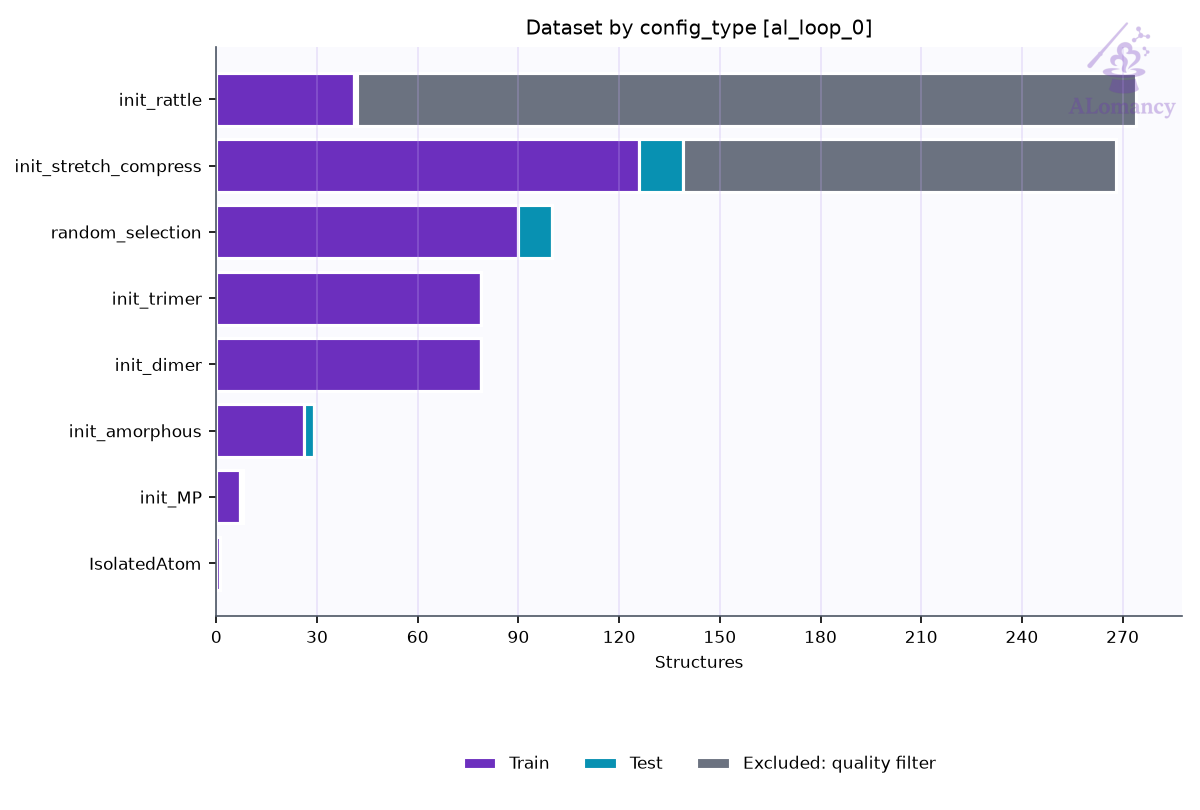
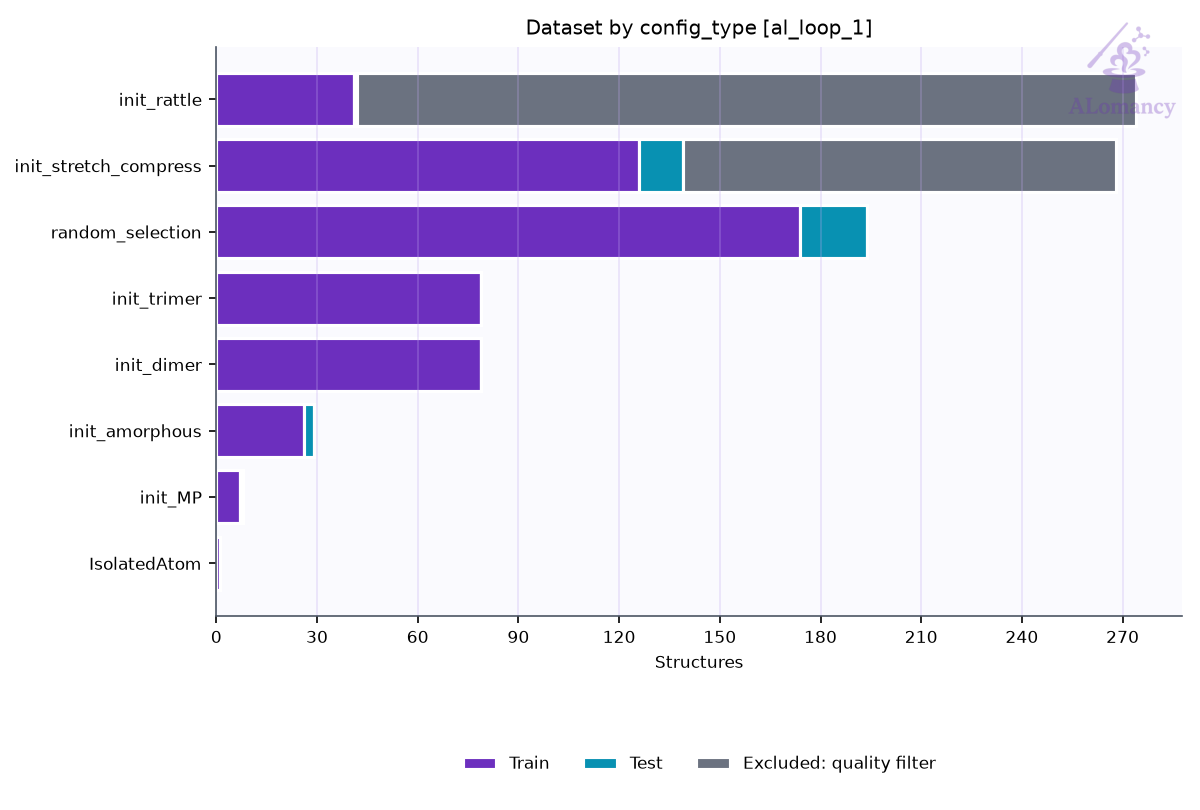
update viper_omat_ezga_random, viper_omat_md_novelty, viper_omat_md_random

Changed region(s): [[0.4317, 0.2469, 0.74, 0.3395]]

diff --git a/alomancy/viper_omat_ezga_random/report/report.md b/alomancy/viper_omat_ezga_random/report/report.md
@@ -1,31 +1,33 @@
-# ALomancy report: al_loop_0
+# ALomancy report: al_loop_1
 
-Workflow `random_selection` · trainer `mace` · generator `ezga` · evaluator `qe` · generated 2026-11-20T02:38:29
+Workflow `random_selection` · trainer `mace` · generator `ezga` · evaluator `qe` · generated 2026-11-23T09:16:19
 
-**Status:** 💡 1 info · 2 warning(s) logged
+**Status:** 💡 2 infos · 4 warning(s) logged
 
 ## Headline
 
-| | previous | loop 0 | change |
+| | loop 0 | loop 1 | change |
 |---|---:|---:|---:|
-| Best model test force MAE (eV/Å) | n/a | 0.0724 |  |
-| Best model test energy MAE (meV/atom) | n/a | 33.6 |  |
-| Training structures | n/a | 449 |  |
-| Test structures | n/a | 28 |  |
-| New structures this loop | n/a | 50 |  |
-| Warnings / errors logged | n/a | 2 |  |
+| Best model test force MAE (eV/Å) | 0.0724 | 0.136 | +88% |
+| Best model test energy MAE (meV/atom) | 33.6 | 39.8 | +18% |
+| Training structures | 449 | 533 | +19% |
+| Test structures | 28 | 38 | +36% |
+| New structures this loop | 50 | 48 | -4% |
+| Warnings / errors logged | 2 | 4 | +100% |
 
 Best model: fit_0 of 1 (chosen on the `valid` split).
 
 ## Issues & suggestions
 
-- 💡 **queue_dominated**: generate_structures spent 99% of its time (15.8 h) queued. Raise max_num_of_concurrent_jobs in the HPC profile or use a less busy partition.
+- 💡 **queue_dominated**: training_plots spent 99% of its time (25.3 h) queued. Raise max_num_of_concurrent_jobs in the HPC profile or use a less busy partition.
+- 💡 **overfitting**: The best model's test force MAE (0.136 eV/Å) is 2.7x its training MAE (0.0497 eV/Å). The test set covers configurations training doesn't: keep adding data, or raise general.dataset_kwargs.valid_fraction to select models on held-out data.
 
 ## Trends
 
 | loop | test F-MAE (eV/Å) | train | new | DFT returned | GO converged | new redundant | warnings |
 |---:|---:|---:|---:|---:|---:|---:|---:|
 | 0 | 0.0724 | 449 | 50 | 50/50 | 98% | 0 | 2 |
+| 1 | 0.136 | 533 | 48 | 48/50 | 98% | 0 | 4 |
 
 ![Best-model MAE per loop](plots/training_al_loop_mae_plot.png)
 
@@ -35,7 +37,7 @@ Best model: fit_0 of 1 (chosen on the `valid` split).
 
 ![Best model parity](plots/best_model_parity.png)
 
-Median relative error: train energy 1.0%, force 6.3%; test energy 0.3%, force 16.7%.
+Median relative error: train energy 0.6%, force 6.9%; test energy 0.4%, force 21.7%.
 Energies with |formation energy| < 0.05 eV/atom and atoms with |F| < 0.1 eV/Å are left out; force error is |ΔF|/|F| per atom.
 
 ![Best model percentage error](plots/best_model_percent_error.png)
@@ -51,11 +53,11 @@ Energies with |formation energy| < 0.05 eV/atom and atoms with |F| < 0.1 eV/Å a
 | init_rattle | 41 | 1 | 232 | 274 |
 | init_stretch_compress | 126 | 13 | 129 | 268 |
 | init_trimer | 79 | 0 | 0 | 79 |
-| random_selection | 90 | 10 | 0 | 100 |
-| **all** | **449** | **28** | **361** | **838** |
+| random_selection | 174 | 20 | 0 | 194 |
+| **all** | **533** | **38** | **361** | **932** |
 
-- Redundancy removal: 0 structure(s) flagged in total, 0 of this loop's 50 new.
-- DFT geometry-optimisation starting frames: 50 stored this loop, 50 used (the rest excluded by the train/test filters or redundancy removal).
+- Redundancy removal: 0 structure(s) flagged in total, 0 of this loop's 48 new.
+- DFT geometry-optimisation starting frames: 46 stored this loop, 46 used (the rest excluded by the train/test filters or redundancy removal).
 - Quality filters: high_force: 361, formation_energy: 17.
 
 ![Training set composition](plots/training_set_composition.png)
@@ -64,17 +66,17 @@ Energies with |formation energy| < 0.05 eV/atom and atoms with |F| < 0.1 eV/Å a
 
 Redundancy removal flags near-duplicate training structures, so the model isn't trained on many copies of the same geometry. Each structure is described by `char_vec_128`: all of its interatomic distances, sorted and resampled to 128 values (`global_descriptor/atomic_distance_descriptor.make_char_vec`). Two structures count as duplicates when the Euclidean distance between their descriptors is below a tolerance: in database order, each structure still in the training set is kept unless it is within the tolerance of one already kept. The plot sweeps that tolerance and counts how many structures are kept at each value. **We are looking for plateaus** (shaded): ranges where the count doesn't change, so the result doesn't depend on the exact tolerance. The orange line (right axis) is the number of structures removed between consecutive tolerance steps, the gradient of the count: zero on a plateau. The start of the lowest plateau at least `general.redundancy_kwargs.min_plateau_width` of the swept range wide is used (dashed line). Nothing is flagged when no plateau qualifies, or when it would flag more than `max_flagged_fraction` of the structures; `general.redundancy_kwargs.tolerance` sets the tolerance directly.
 
-- This loop: 164 structures probed; the lowest plateau would flag more than 50% of them, so nothing was flagged.
+- This loop: 248 structures probed; the lowest plateau would flag more than 50% of them, so nothing was flagged.
 
 ![Redundancy tolerance probe](plots/redundancy_tolerance_probe.png)
 
 ## DFT
 
-- Structures: 50 returned of 50 submitted (50 relaxed, 0 single point).
-- Geometry optimisation: 49/50 reached the force ceiling (0.05 eV/Å); steps mean 23.3, median 16, max 200 of 200 allowed.
-- Average DFT time per relaxation: 13.8 min (median 9.2, max 106.0; 50 structures).
-- Largest per-atom force after DFT: median 0.04, max 0.21 eV/Å.
-- DFT phase wall-clock: 45.0 h (mean queue time 1540 min).
+- Structures: 48 returned of 50 submitted (48 relaxed, 0 single point).
+- Geometry optimisation: 47/48 reached the force ceiling (0.05 eV/Å); steps mean 27.2, median 18, max 200 of 200 allowed.
+- Average DFT time per relaxation: 17.9 min (median 12.0, max 138.9; 48 structures).
+- Largest per-atom force after DFT: median 0.04, max 0.62 eV/Å.
+- DFT phase wall-clock: 52.8 h (mean queue time 3046 min).
 
 **Structures evaluated with DFT this loop (final geometries)**
 
@@ -82,14 +84,14 @@ Redundancy removal flags near-duplicate training structures, so the model isn't 
 
 ## MLIP training: mace
 
-- Best fit (fit_0) trained for 299 epochs, stage two from epoch 240; weights kept from epoch 244.
+- Best fit (fit_0) trained for 299 epochs, stage two from epoch 240; weights kept from epoch 253.
 
 ![Best model training curve](plots/best_model_training_curve.png)
 
 ## Structure generation: EZGA
 
 - Seeds: 8, generations run: 11 (max_generations 10, population 100)
-- Structures generated: 514, taken as candidates: 500 (newest first, back to generation 1)
+- Structures generated: 565, taken as candidates: 500 (newest first, back to generation 4)
 - Mutations: mutation_rattle, mutation_random_strain, bounded_mutation_add, bounded_mutation_remove
 
 ## High-accuracy evaluation: QE
@@ -104,8 +106,9 @@ Redundancy removal flags near-duplicate training structures, so the model isn't 
 |---|---|---:|
 | `dft_summary` | DFT batch summary | 1 |
 | `ezga_summary` | EZGA summary | 1 |
-| `job_still_queued` | jobs still queued after their time limit (waiting on) | 15 |
-| `jobs_started` | remote jobs started | 2 |
+| `job_failed` | remote job failed | 2 |
+| `job_still_queued` | jobs still queued after their time limit (waiting on) | 50 |
+| `jobs_started` | remote jobs started | 3 |
 | `quality_filtered` | train/test quality filter passes | 2 |
 | `redundancy_cap_hit` | redundancy removal skipped (would flag too many) | 1 |
 | `stale_sqlite_sidecars_removed` |  | 1 |

diff --git a/alomancy/viper_omat_md_novelty/report/report.md b/alomancy/viper_omat_md_novelty/report/report.md
@@ -1,31 +1,32 @@
-# ALomancy report: al_loop_0
+# ALomancy report: al_loop_1
 
-Workflow `novelty_selection` · trainer `mace` · generator `md` · evaluator `qe` · generated 2026-11-23T05:15:48
+Workflow `novelty_selection` · trainer `mace` · generator `md` · evaluator `qe` · generated 2026-11-23T09:10:41
 
-**Status:** 💡 1 info · 7 warning(s) logged
+**Status:** 💡 1 info · 4 warning(s) logged
 
 ## Headline
 
-| | previous | loop 0 | change |
+| | loop 0 | loop 1 | change |
 |---|---:|---:|---:|
-| Best model test force MAE (eV/Å) | n/a | 0.0724 |  |
-| Best model test energy MAE (meV/atom) | n/a | 33.6 |  |
-| Training structures | n/a | 443 |  |
-| Test structures | n/a | 28 |  |
-| New structures this loop | n/a | 48 |  |
-| Warnings / errors logged | n/a | 7 |  |
+| Best model test force MAE (eV/Å) | 0.0724 | 0.111 | +53% |
+| Best model test energy MAE (meV/atom) | 33.6 | 31.7 | -6% |
+| Training structures | 443 | 529 | +19% |
+| Test structures | 28 | 38 | +36% |
+| New structures this loop | 48 | 19 | -60% |
+| Warnings / errors logged | 7 | 4 | -43% |
 
 Best model: fit_0 of 1 (chosen on the `valid` split).
 
 ## Issues & suggestions
 
-- 💡 **queue_dominated**: generate_structures spent 94% of its time (33.2 h) queued. Raise max_num_of_concurrent_jobs in the HPC profile or use a less busy partition.
+- 💡 **queue_dominated**: high_accuracy_evaluation spent 58% of its time (1.4 h) queued. Raise max_num_of_concurrent_jobs in the HPC profile or use a less busy partition.
 
 ## Trends
 
 | loop | test F-MAE (eV/Å) | train | new | DFT returned | GO converged | new redundant | warnings |
 |---:|---:|---:|---:|---:|---:|---:|---:|
 | 0 | 0.0724 | 443 | 48 | 48/50 | 98% | 0 | 7 |
+| 1 | 0.111 | 529 | 19 | 48/50 | 100% | 0 | 4 |
 
 ![Best-model MAE per loop](plots/training_al_loop_mae_plot.png)
 
@@ -35,7 +36,7 @@ Best model: fit_0 of 1 (chosen on the `valid` split).
 
 ![Best model parity](plots/best_model_parity.png)
 
-Median relative error: train energy 1.0%, force 6.3%; test energy 0.3%, force 16.7%.
+Median relative error: train energy 0.6%, force 6.2%; test energy 0.2%, force 8.0%.
 Energies with |formation energy| < 0.05 eV/atom and atoms with |F| < 0.1 eV/Å are left out; force error is |ΔF|/|F| per atom.
 
 ![Best model percentage error](plots/best_model_percent_error.png)
@@ -51,11 +52,11 @@ Energies with |formation energy| < 0.05 eV/atom and atoms with |F| < 0.1 eV/Å a
 | init_rattle | 41 | 1 | 232 | 274 |
 | init_stretch_compress | 126 | 13 | 129 | 268 |
 | init_trimer | 79 | 0 | 0 | 79 |
-| novelty_selection | 84 | 10 | 2 | 96 |
-| **all** | **443** | **28** | **363** | **834** |
+| novelty_selection | 170 | 20 | 2 | 192 |
+| **all** | **529** | **38** | **363** | **930** |
 
-- Redundancy removal: 0 structure(s) flagged in total, 0 of this loop's 48 new.
-- DFT geometry-optimisation starting frames: 48 stored this loop, 46 used (the rest excluded by the train/test filters or redundancy removal).
+- Redundancy removal: 0 structure(s) flagged in total, 0 of this loop's 19 new.
+- DFT geometry-optimisation starting frames: 77 stored this loop, 77 used (the rest excluded by the train/test filters or redundancy removal).
 - Quality filters: high_force: 363, formation_energy: 17.
 
 ![Training set composition](plots/training_set_composition.png)
@@ -64,17 +65,17 @@ Energies with |formation energy| < 0.05 eV/atom and atoms with |F| < 0.1 eV/Å a
 
 Redundancy removal flags near-duplicate training structures, so the model isn't trained on many copies of the same geometry. Each structure is described by `char_vec_128`: all of its interatomic distances, sorted and resampled to 128 values (`global_descriptor/atomic_distance_descriptor.make_char_vec`). Two structures count as duplicates when the Euclidean distance between their descriptors is below a tolerance: in database order, each structure still in the training set is kept unless it is within the tolerance of one already kept. The plot sweeps that tolerance and counts how many structures are kept at each value. **We are looking for plateaus** (shaded): ranges where the count doesn't change, so the result doesn't depend on the exact tolerance. The orange line (right axis) is the number of structures removed between consecutive tolerance steps, the gradient of the count: zero on a plateau. The start of the lowest plateau at least `general.redundancy_kwargs.min_plateau_width` of the swept range wide is used (dashed line). Nothing is flagged when no plateau qualifies, or when it would flag more than `max_flagged_fraction` of the structures; `general.redundancy_kwargs.tolerance` sets the tolerance directly.
 
-- This loop: 158 structures probed; the lowest plateau would flag more than 50% of them, so nothing was flagged.
+- This loop: 244 structures probed; the lowest plateau would flag more than 50% of them, so nothing was flagged.
 
 ![Redundancy tolerance probe](plots/redundancy_tolerance_probe.png)
 
 ## DFT
 
 - Structures: 48 returned of 50 submitted (48 relaxed, 0 single point).
-- Geometry optimisation: 47/48 reached the force ceiling (0.05 eV/Å); steps mean 22.0, median 19, max 200 of 200 allowed.
-- Average DFT time per relaxation: 12.1 min (median 9.6, max 100.9; 48 structures).
-- Largest per-atom force after DFT: median 0.04, max 0.51 eV/Å.
-- DFT phase wall-clock: 100.0 h (mean queue time 4923 min).
+- Geometry optimisation: 48/48 reached the force ceiling (0.05 eV/Å); steps mean 18.3, median 19, max 33 of 200 allowed.
+- Average DFT time per relaxation: 11.6 min (median 10.4, max 28.1; 48 structures).
+- Largest per-atom force after DFT: median 0.04, max 0.05 eV/Å.
+- DFT phase wall-clock: 2.3 h (mean queue time 82 min).
 
 **Structures evaluated with DFT this loop (final geometries)**
 
@@ -82,7 +83,7 @@ Redundancy removal flags near-duplicate training structures, so the model isn't 
 
 ## MLIP training: mace
 
-- Best fit (fit_0) trained for 299 epochs, stage two from epoch 240; weights kept from epoch 244.
+- Best fit (fit_0) trained for 299 epochs, stage two from epoch 240; weights kept from epoch 241.
 
 ![Best model training curve](plots/best_model_training_curve.png)
 
@@ -104,7 +105,7 @@ Redundancy removal flags near-duplicate training structures, so the model isn't 
 
 ## Selection: novelty
 
-- 50 of 500 candidates selected against 738 reference structure(s), tolerance 0.662 (descriptor distance).
+- 50 of 500 candidates selected against 834 reference structure(s), tolerance 0.561 (descriptor distance).
 
 ## Warnings and events
 
@@ -112,15 +113,9 @@ Redundancy removal flags near-duplicate training structures, so the model isn't 
 |---|---|---:|
 | `dft_summary` | DFT batch summary | 1 |
 | `job_failed` | remote job failed | 2 |
-| `job_resumed` | transient remote error, polling resumed | 2 |
-| `job_still_queued` | jobs still queued after their time limit (waiting on) | 160 |
-| `jobs_started` | remote jobs started | 2 |
+| `jobs_started` | remote jobs started | 3 |
 | `md_summary` | MD summary | 1 |
 | `novelty_inexact` | novelty tolerance not exact | 1 |
 | `novelty_selected` | novelty selection | 1 |
 | `quality_filtered` | train/test quality filter passes | 2 |
 | `redundancy_cap_hit` | redundancy removal skipped (would flag too many) | 1 |
-
-Other warnings (most frequent first):
-
-- (1x) Only 30 structures available for 50 concurrent structure_generation jobs; reusing structures to fill the requested concurrency. Each reused structure is assigned a distinct MD seed (atoms.info['md_see
